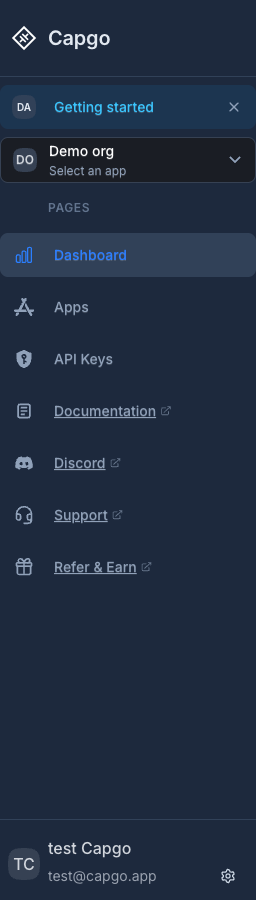
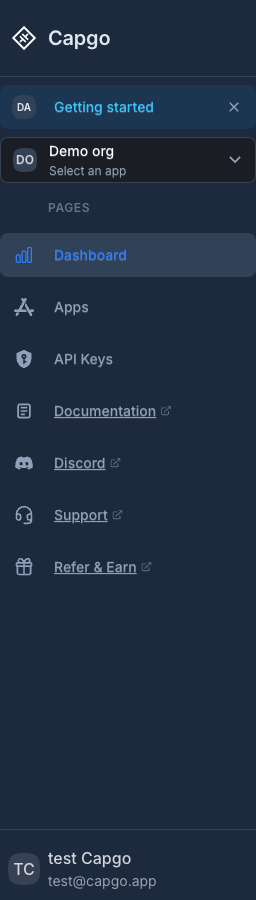
fix(frontend): remove unused settings gear from the sidebar profile
The avatar already opens account settings, and the extra icon sat misaligned next to the email.

Changed region(s): [[0.1875, 0.9333, 0.625, 0.9956], [0.0312, 0.9333, 0.1562, 0.9956], [0.8438, 0.9644, 0.9375, 0.9956]]

diff --git a/src/components/dashboard/DropdownProfile.vue b/src/components/dashboard/DropdownProfile.vue
@@ -4,7 +4,6 @@ import { computed, ref } from 'vue'
 import { useI18n } from 'vue-i18n'
 import { useRoute, useRouter } from 'vue-router'
 import { toast } from 'vue-sonner'
-import IconSettings from '~icons/lucide/settings'
 import { logAsUser } from '~/services/logAs'
 import { isSpoofed, unspoofUser } from '~/services/supabase'
 import { useDialogV2Store } from '~/stores/dialogv2'
@@ -122,20 +121,9 @@ async function resetSpoofedUser() {
             <p class="font-medium truncate">
               {{ `${main.user?.first_name} ${main.user?.last_name}` }}
             </p>
-            <div class="flex items-center gap-1 min-w-0">
-              <p class="text-sm text-gray-400 truncate min-w-0 flex-1">
-                {{ main.user?.email }}
-              </p>
-              <router-link
-                to="/settings/account"
-                class="d-btn d-btn-ghost d-btn-sm d-btn-square size-8 min-h-0 border-none text-slate-300 hover:bg-slate-500/30 hover:text-white shrink-0"
-                :aria-label="t('settings')"
-                tabindex="-1"
-                @click="allowPendingOnboardingDashboardExploration"
-              >
-                <IconSettings class="size-4" />
-              </router-link>
-            </div>
+            <p class="text-sm text-gray-400 truncate">
+              {{ main.user?.email }}
+            </p>
           </div>
         </div>
         <template v-if="!props.compact">
